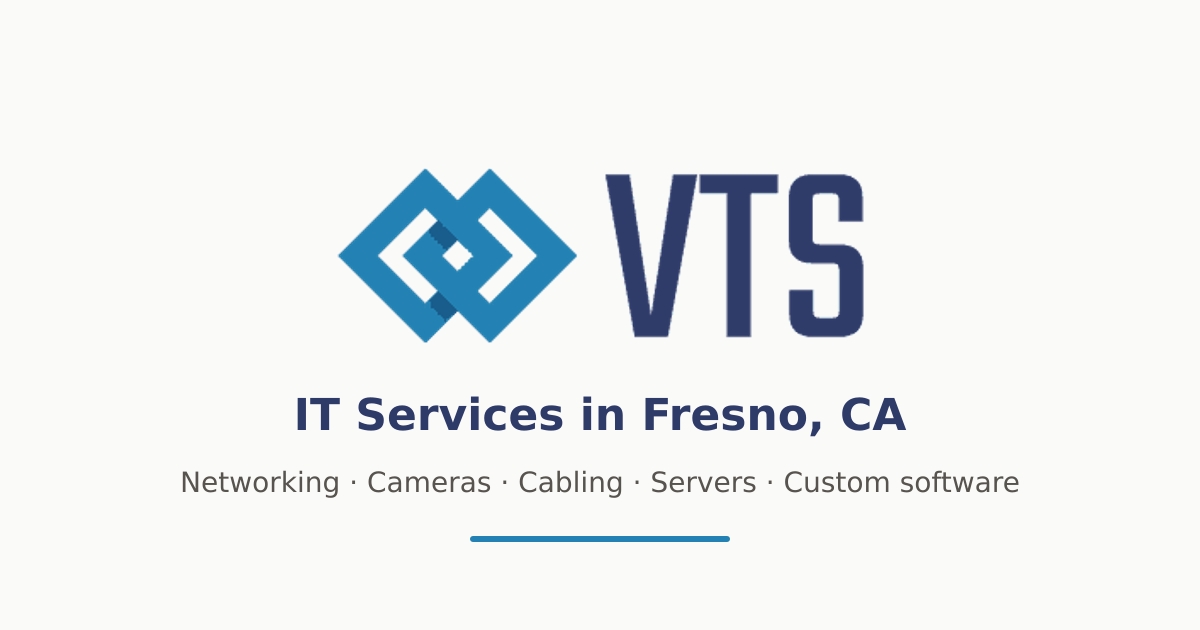
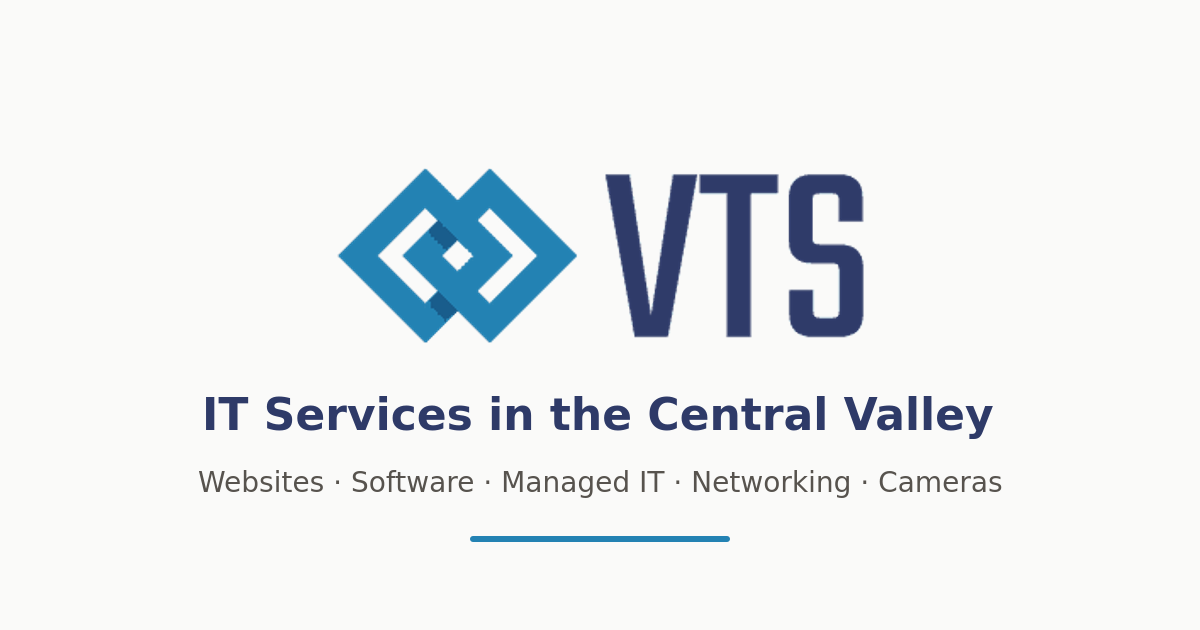
fix(seo): name the place in service titles, one name per service, and descriptions that fit a result (#95)

Changed region(s): [[0.1542, 0.6333, 0.8325, 0.6937], [0.1542, 0.7238, 0.8633, 0.7841]]

diff --git a/scripts/check-bundles.ts b/scripts/check-bundles.ts
@@ -55,6 +55,12 @@
  * in a built page, stylesheet or script, or in the server chunk of a page
  * that renders at request time. The server entry is left out, because
  * its manifest lists every emitted file whether used or not.
+ *
+ * EVERY INDEXABLE PAGE SAYS SOMETHING OF ITS OWN TO A SEARCH RESULT. Its
+ * title and description are unique, and the description fits what a
+ * result shows (about 160 characters; past that it is cut mid-word). The
+ * home page and /services once shared a title, and five descriptions ran
+ * past the cut. Pages marked noindex are not in results, so not checked.
  */
 import fs from "node:fs";
 import path from "node:path";
@@ -137,12 +143,48 @@ function loadedFiles(entries: Iterable<string>) {
 let failed = false;
 const rows = [];
 
+/** What a search result shows before cutting a description off. */
+const DESCRIPTION_MAX = 160;
+const META_TITLE = /<title>([\s\S]*?)<\/title>/;
+const META_DESCRIPTION = /<meta name="description" content="([^"]*)"/;
+const NOINDEX = /<meta name="robots" content="[^"]*noindex/;
+const titles = new Map<string, string>();
+const descriptions = new Map<string, string>();
+
 for (const file of htmlFiles(ROOT).sort()) {
   const html = fs.readFileSync(file, "utf8");
   const route = file
     .slice(ROOT.length)
     .replace(/\\/g, "/")
     .replace(/\/index\.html$/, "/");
+
+  if (!NOINDEX.test(html)) {
+    const title = html.match(META_TITLE)?.[1]?.trim() ?? "";
+    const description = html.match(META_DESCRIPTION)?.[1] ?? "";
+    if (!title || !description) {
+      console.error(`error: ${route} has no ${title ? "description" : "title"}.`);
+      failed = true;
+    }
+    // Entities count as the one character a result shows.
+    const shown = description.replace(/&[a-z]+;|&#\d+;/g, "x").length;
+    if (shown > DESCRIPTION_MAX) {
+      console.error(
+        `error: ${route}'s description is ${shown} characters; a search result cuts it at about ${DESCRIPTION_MAX}.`,
+      );
+      failed = true;
+    }
+    for (const [seen, value, what] of [
+      [titles, title, "title"],
+      [descriptions, description, "description"],
+    ] as const) {
+      const other = seen.get(value);
+      if (value && other) {
+        console.error(`error: ${route} has the same ${what} as ${other}.`);
+        failed = true;
+      }
+      seen.set(value, route);
+    }
+  }
 
   for (const what of inlineCodeIn(html)) {
     console.error(`error: ${route} has ${what}, which the CSP would block.`);
@@ -245,4 +287,7 @@ console.log(
   `  ${rows.length} prerendered pages checked, no framework runtime present, no inline code.`,
 );
 console.log(`  ${images.length} images shipped, each used by a page.`);
+console.log(
+  `  ${titles.size} indexable pages, each with its own title and a description that fits.`,
+);
 process.exit(failed ? 1 : 0);

diff --git a/src/lib/business.ts b/src/lib/business.ts
@@ -12,13 +12,48 @@ const california = { "@type": "State", name: "California" } as const;
 
 const city = (name: string) => ({ "@type": "City", name, containedInPlace: california }) as const;
 
-/** Where the business works on site. Remote work is not limited to these. */
+/** The place a page's title names. The region rather than one city: the
+ *  business is in Riverdale, on the Fresno-Kings county line, and works
+ *  across the valley around it, not in Fresno alone. One value, so titles
+ *  cannot drift page by page. */
+export const SEARCH_PLACE = "the Central Valley";
+
+/** Where the business works on site: about 90 minutes' drive from
+ *  Riverdale in any direction. Measured 2026-10-07 as free-flow drive
+ *  times from the town centre, so real driving runs a little longer;
+ *  Delano and Merced, at 92 and 97 minutes, are left out. Remote work is
+ *  not limited to these. */
 export const areaServed = [
+  // Fresno County
+  city("Riverdale"),
+  city("Laton"),
+  city("Caruthers"),
+  city("Selma"),
+  city("Fowler"),
+  city("Kingsburg"),
   city("Fresno"),
   city("Clovis"),
-  city("Madera"),
+  city("Sanger"),
+  city("Reedley"),
+  city("Kerman"),
+  city("Coalinga"),
+  // Kings County
+  city("Lemoore"),
+  city("Hanford"),
+  city("Corcoran"),
+  city("Avenal"),
+  city("Kettleman City"),
+  // Tulare County
+  city("Traver"),
+  city("Dinuba"),
   city("Visalia"),
-  city("Riverdale"),
+  city("Tulare"),
+  city("Exeter"),
+  city("Lindsay"),
+  city("Porterville"),
+  // Madera County
+  city("Madera"),
+  city("Chowchilla"),
   { "@type": "Place", name: "Central Valley, CA", containedInPlace: california },
 ] as const;
 

diff --git a/src/lib/services.ts b/src/lib/services.ts
@@ -39,7 +39,7 @@ export const services: ServiceItem[] = [
   },
   {
     slug: "security-cameras",
-    title: "Security & Cameras",
+    title: "Security Cameras",
     desc: "Camera systems with local AI detection and no cloud subscription. Check in from anywhere, and keep the footage on hardware you own.",
     href: "/services/security-cameras",
   },

diff --git a/src/pages/manifest.webmanifest.ts b/src/pages/manifest.webmanifest.ts
@@ -5,7 +5,7 @@ export const GET: APIRoute = () =>
     JSON.stringify({
       name: "Vigario Technology Solutions",
       short_name: "VTS",
-      description: "IT Services in Fresno, CA",
+      description: "IT services in the Central Valley",
       start_url: "/",
       display: "standalone",
       background_color: "#fafaf9",
